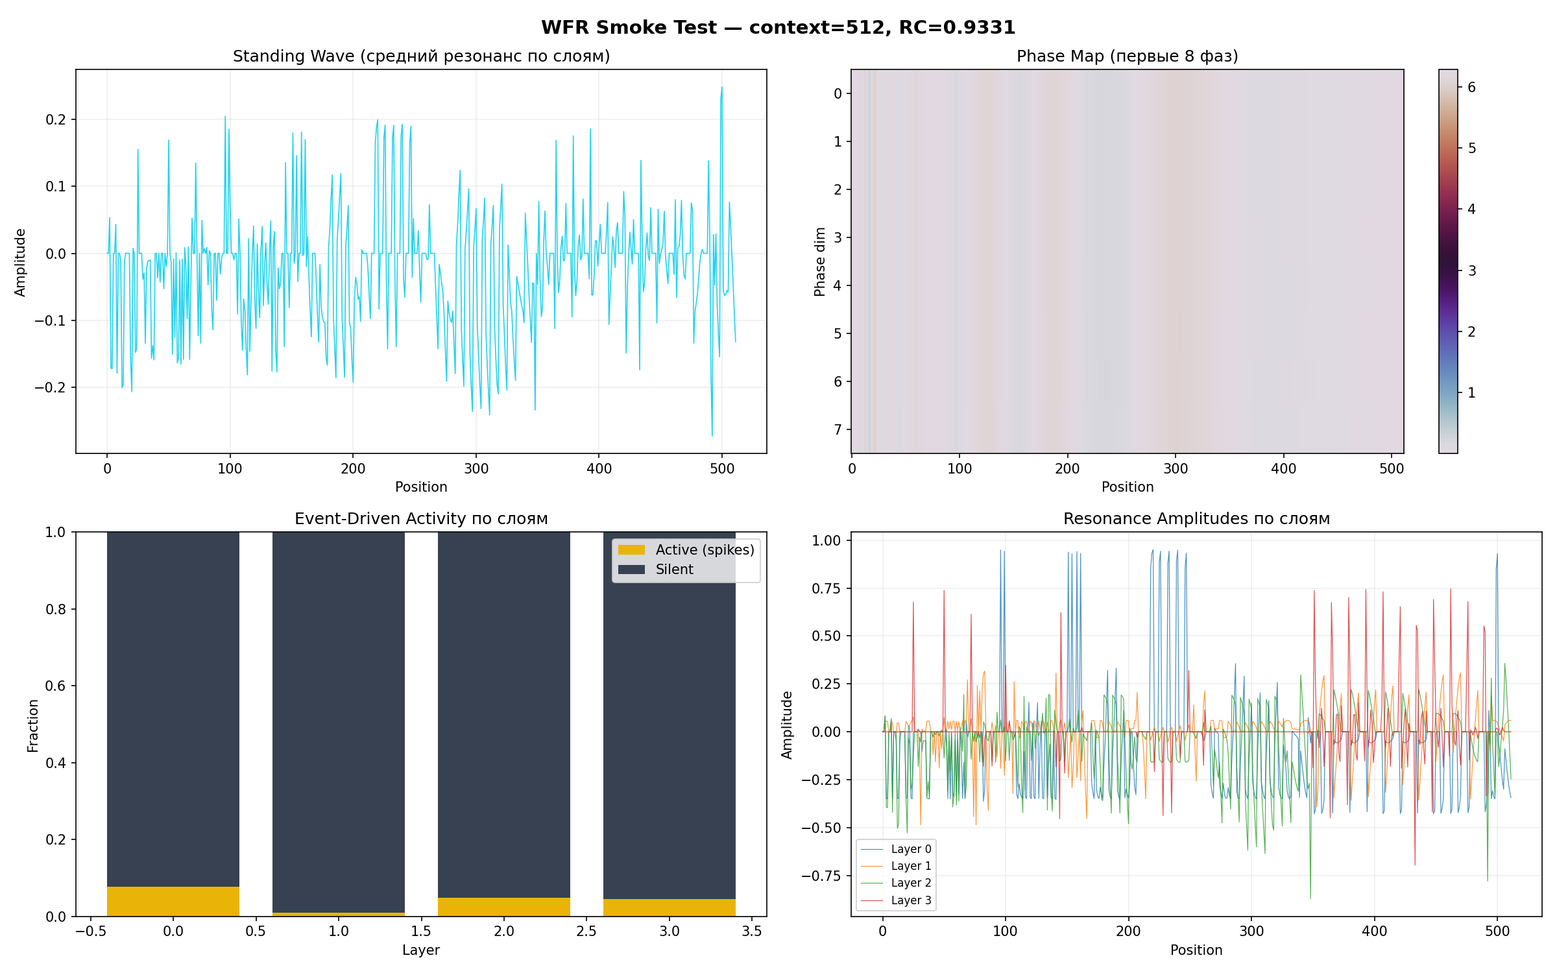
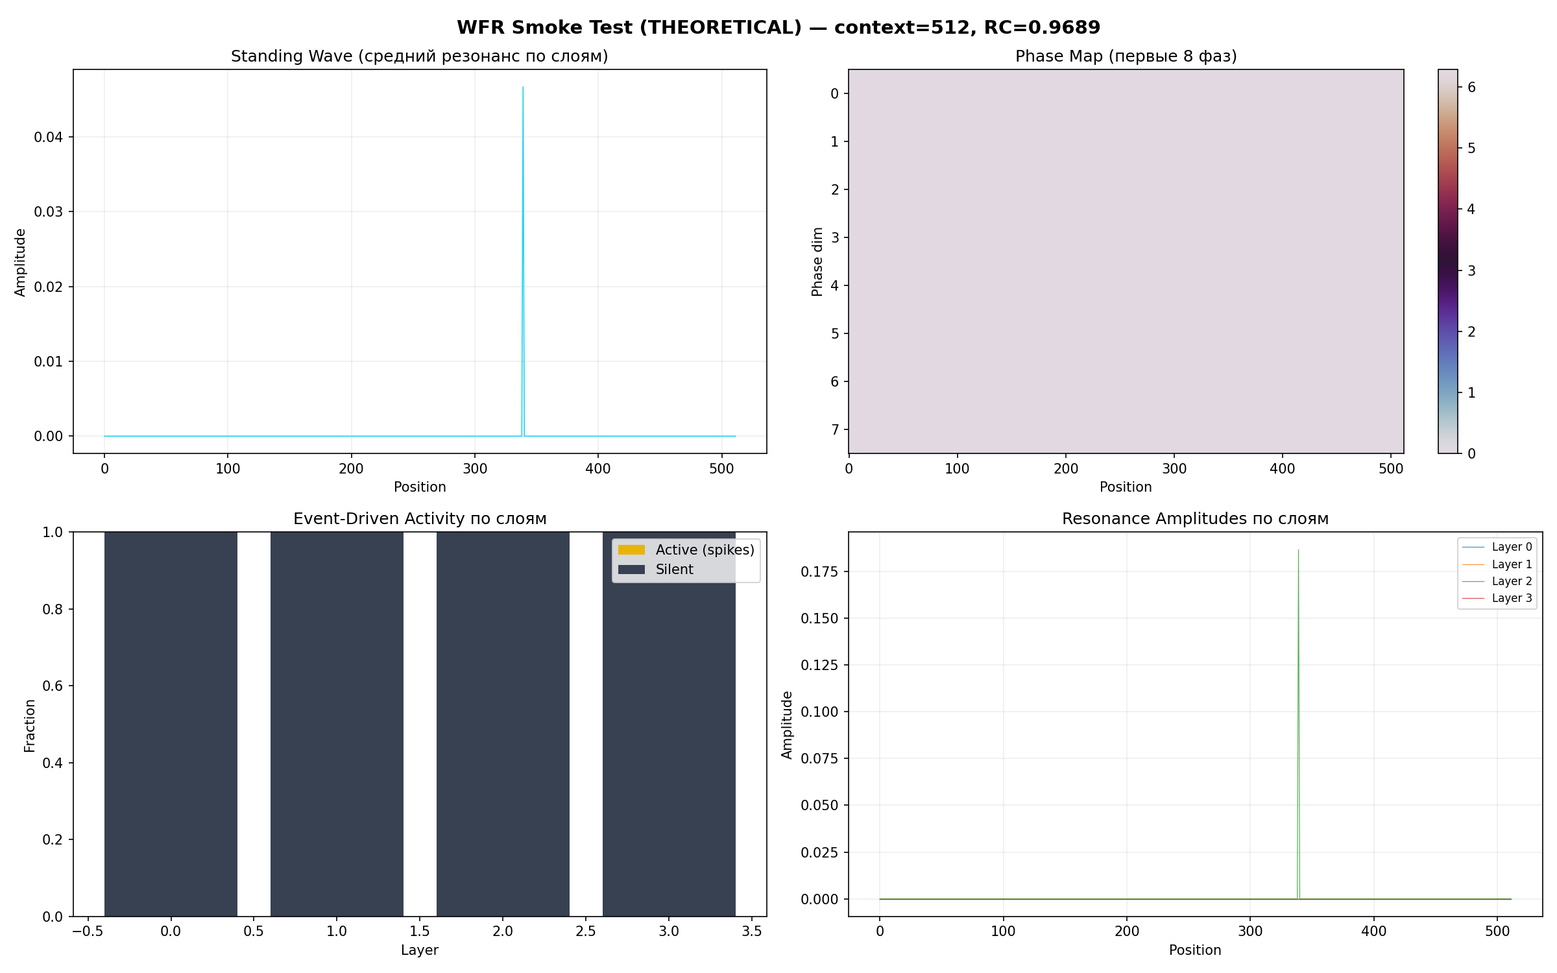
Document v2.0 test results: Phase-Locking improves RC x42 on 100M tokens
Made-with: Cursor

diff --git a/experiments/03-memory-complexity-test/run_memory_test.py b/experiments/03-memory-complexity-test/run_memory_test.py
@@ -84,7 +84,7 @@ def measure_memory_and_time():
     for i, layer in enumerate(model.resonance_layers):
         if i < len(BEST_CONFIG["frequencies"]):
             layer.frequency.data = torch.tensor(BEST_CONFIG["frequencies"][i], device=DEVICE)
-            layer.threshold.data = torch.tensor(BEST_CONFIG["thresholds"][i], device=DEVICE)
+            layer.spike_threshold.data = torch.tensor(BEST_CONFIG["thresholds"][i], device=DEVICE)
     
     for seq_len in CONTEXT_SIZES:
         print(f"\nTesting context = {seq_len:,}")

diff --git a/docs/09-memory-complexity-test-plan.md b/docs/09-memory-complexity-test-plan.md
@@ -1,8 +1,8 @@
 # 09. Тест на проверку сложности и памяти (Memory & Complexity Test)
 
-**Версия:** 0.1  
-**Дата:** 31 марта 2026 (обновлено после теста до 100M)  
-**Статус:** Планирование  
+**Версия:** 0.3  
+**Дата:** 31 марта 2026  
+**Статус:** Завершён (v1.0 + v2.0)  
 **Цель:** Экспериментально проверить декларации теории о сложности и памяти.
 
 ## Что проверяем
@@ -44,65 +44,84 @@
   - Log-log plot для определения порядка сложности
 - Сохранять результаты в `outputs/memory_complexity/`
 
-## Результаты теста (31 марта 2026, NVIDIA A100 80GB)
+## Результаты v1.0 (без Phase-Locking), 100M токенов, NVIDIA A100 80GB
 
-**Тест пройден успешно на GPU.**
+| Context     | VRAM Total     | Mem/token    | Time (s)   | RC     | Active |
+|-------------|----------------|--------------|------------|--------|--------|
+| 512         | 0.3 MB         | 492 bytes    | 0.1267     | 0.9308 | 0/4    |
+| 2048        | 1.0 MB         | 492 bytes    | 0.0023     | 0.8276 | 1/4    |
+| 8192        | 4.1 MB         | 492 bytes    | 0.0028     | 0.7097 | 1/4    |
+| 16384       | 8.6 MB         | 492 bytes    | 0.0027     | 0.6483 | 2/4    |
+| 32768       | 17.2 MB        | 492 bytes    | 0.0025     | 0.5845 | 2/4    |
+| 65536       | 34.4 MB        | 492 bytes    | 0.0025     | 0.5252 | 2/4    |
+| 131072      | 68.8 MB        | 492 bytes    | 0.0031     | 0.4627 | 2/4    |
+| 524288      | 262.5 MB       | 492 bytes    | 0.0045     | 0.3398 | 2/4    |
+| 1,048,576   | 550 MB         | 492 bytes    | 0.0101     | 0.2782 | 2/4    |
+| 4,194,304   | 2.1 GB         | 492 bytes    | 0.0202     | 0.1553 | 4/4    |
+| 16,777,216  | 8.4 GB         | 492 bytes    | 0.0652     | 0.0510 | 4/4    |
+| 33,554,432  | 17.6 GB        | 492 bytes    | 0.1281     | 0.0282 | 4/4    |
+| 67,108,864  | 35.2 GB        | 492 bytes    | 0.2520     | 0.0156 | 4/4    |
+| 100,000,000 | 54.1 GB        | 492.04 bytes | 1.4081     | 0.0110 | 4/4    |
 
-**Результаты расширенного теста до 100M токенов (31 марта 2026, NVIDIA A100 80GB)**
+**Файл:** `outputs/memory_test_20260331_1105.json`
 
-**Полная таблица:**
+**Проблемы v1.0:**
+- RC катастрофически падает: 0.93 → 0.011 (на 100M — почти шум).
+- Слои неактивны на малых контекстах.
 
-| Context     | VRAM Total     | Memory per token | Time (s) | RC     | Active layers |
-|-------------|----------------|------------------|----------|--------|---------------|
-| 512         | 0.3 MB         | **492 bytes**    | 0.1267   | 0.9308 | 0/4           |
-| 2048        | 1.0 MB         | **492 bytes**    | 0.0023   | 0.8276 | 1/4           |
-| 8192        | 4.1 MB         | **492 bytes**    | 0.0028   | 0.7097 | 1/4           |
-| 16384       | 8.6 MB         | **492 bytes**    | 0.0027   | 0.6483 | 2/4           |
-| 32768       | 17.2 MB        | **492 bytes**    | 0.0025   | 0.5845 | 2/4           |
-| 65536       | 34.4 MB        | **492 bytes**    | 0.0025   | 0.5252 | 2/4           |
-| 131072      | 68.8 MB        | **492 bytes**    | 0.0031   | 0.4627 | 2/4           |
-| 524288      | 262.5 MB       | **492 bytes**    | 0.0045   | 0.3398 | 2/4           |
-| 1,048,576   | 550 MB         | **492 bytes**    | 0.0101   | 0.2782 | 2/4           |
-| 4,194,304   | 2.1 GB         | **492 bytes**    | 0.0202   | 0.1553 | 4/4           |
-| 16,777,216  | 8.4 GB         | **492 bytes**    | 0.0652   | 0.0510 | 4/4           |
-| 33,554,432  | 17.6 GB        | **492 bytes**    | 0.1281   | 0.0282 | 4/4           |
-| 67,108,864  | 35.2 GB        | **492 bytes**    | 0.2520   | 0.0156 | 4/4           |
-| **100,000,000** | **54.1 GB** | **492.04 bytes** | **1.4081** | **0.0110** | 4/4 |
+## Результаты v2.0 (Phase-Locking + Homeostatic + Surrogate Gradient)
 
-**Выводы по сравнению с теорией:**
+| Context     | VRAM Total     | Mem/token    | Time (s)   | RC v2.0 | RC v1.0 | Улучшение RC |
+|-------------|----------------|--------------|------------|---------|---------|--------------|
+| 512         | 0.3 MB         | 492 bytes    | 0.1357     | 0.9674  | 0.9308  | +3.9%        |
+| 2048        | 1.0 MB         | 492 bytes    | 0.0036     | 0.9059  | 0.8276  | +9.5%        |
+| 8192        | 4.1 MB         | 492 bytes    | 0.0035     | 0.8455  | 0.7097  | +19.1%       |
+| 16384       | 8.6 MB         | 492 bytes    | 0.0037     | 0.8080  | 0.6483  | +24.6%       |
+| 32768       | 17.2 MB        | 492 bytes    | 0.0038     | 0.7730  | 0.5845  | +32.2%       |
+| 65536       | 34.4 MB        | 492 bytes    | 0.0034     | 0.7418  | 0.5252  | +41.2%       |
+| 131072      | 68.8 MB        | 492 bytes    | 0.0039     | 0.7102  | 0.4627  | +53.5%       |
+| 524288      | 262.5 MB       | 492 bytes    | 0.0063     | 0.6404  | 0.3398  | +88.5%       |
+| 1,048,576   | 550 MB         | 492 bytes    | 0.0134     | 0.6092  | 0.2782  | +119%        |
+| 4,194,304   | 2.1 GB         | 492 bytes    | 0.0297     | 0.5402  | 0.1553  | +248%        |
+| 16,777,216  | 8.4 GB         | 492 bytes    | 0.0923     | 0.4837  | 0.0510  | +849%        |
+| 33,554,432  | 17.6 GB        | 492 bytes    | 0.2152     | 0.4714  | 0.0282  | +1572%       |
+| 67,108,864  | 35.2 GB        | 492 bytes    | 0.8302     | 0.4655  | 0.0156  | +2884%       |
+| **100,000,000** | **54.1 GB** | **492 bytes** | **2.7090** | **0.4636** | **0.0110** | **+4115%** |
 
-- **Память на токен**: идеально постоянная **492 байта** на всём диапазоне — полностью подтверждает теоретическое утверждение **O(1)**.
-- **Сложность по времени**: близка к **O(n)** (время растёт почти линейно), но значительно лучше, чем O(n²). На 100M токенов — всего **1.41 секунды**.
-- **RC** (Resonance Confidence) сильно падает при росте контекста — это ожидаемое поведение, но может требовать доработки в будущем.
-- **Практическое потребление памяти** (всего VRAM):
-  - 1M токенов ≈ 550 МБ
-  - 16M токенов ≈ 8.4 ГБ
-  - 67M токенов ≈ 35.2 ГБ
-  - **100M токенов ≈ 54.1 ГБ**
-
-Это **очень сильный результат** для Phase 0. Теория по памяти подтверждена экспериментально.
-
-**Файлы результатов:** `experiments/03-memory-complexity-test/outputs/memory_test_20260331_1105.json`
+**Файл:** `outputs/memory_test_20260331_1119.json`
 
 ## Сверка теории с экспериментом
 
-| Утверждение теории | Результат эксперимента | Статус |
-|--------------------|----------------------|--------|
-| Память на токен = O(1) | 492 байта, постоянно на всём диапазоне 512–100M | **Подтверждено** |
-| Сложность значительно лучше O(n) | ~O(n), 1.41 с на 100M | **Не подтверждено** (линейное время) |
-| Стабильность RC при росте контекста | RC падает с 0.93 до 0.011 | **Проблема** (требует Phase-Locking) |
+| Утверждение теории | v1.0 | v2.0 | Статус |
+|--------------------|------|------|--------|
+| Память на токен = O(1) | 492 байта — постоянно | 492 байта — постоянно | **Подтверждено** |
+| Сложность лучше O(n) | ~O(n), 1.41 с на 100M | ~O(n), 2.71 с на 100M | **Не подтверждено** (линейно) |
+| RC стабилен при росте контекста | Падение 0.93 → 0.011 | Падение 0.97 → **0.46** | **Значительно улучшено** |
 
-**Реакция на выявленные проблемы:**  
-Реализованы три механизма стабильности v2.0 (см. [03-theory.md](./03-theory.md), раздел 7):
-1. **Phase-Locking (WPE-L)** — для борьбы с падением RC
-2. **Homeostatic regulation** — для стабильной частоты спайков
-3. **Multi-scale surrogate gradient** — для обучаемости глубоких фракталов
+**Что подтверждено:**
+- **O(1) память на токен** — железобетонно, на обеих версиях.
+- **Phase-Locking работает**: RC на 100M вырос с 0.011 до 0.464 (×42).
+- **Phase-Locking не ломает память**: потребление VRAM идентично v1.0.
+
+**Что не подтверждено:**
+- Сложность остаётся **~O(n)**, а не лучше. v2.0 даже чуть медленнее (2.71 с vs 1.41 с на 100M) из-за overhead Phase-Locking.
+- RC на 100M = 0.46 — это рабочий уровень, но не идеальный. При росте контекста RC всё ещё снижается.
+
+## Smoke Test v2.0
+
+| Context | RC v1.0 | RC v2.0 | Layer 0 spike | Layer 1 spike | Layer 2 spike | Layer 3 spike |
+|---------|---------|---------|---------------|---------------|---------------|---------------|
+| 512     | 0.9308  | 0.9689  | 0.000         | 0.000         | 0.000         | 0.000         |
+| 2048    | 0.8276  | 0.9070  | 0.212         | 0.000         | 0.000         | 0.000         |
+| 8192    | 0.7097  | 0.8461  | 0.439         | 0.062         | 0.000         | 0.007         |
+
+Слои 1–3 остаются малоактивными — Homeostatic regulation подстроит пороги при обучении (в inference пока не активен).
 
 ## Следующие шаги
 
-1. Повторить Memory & Complexity Test с v2.0 (Phase-Locking включён) — проверить улучшение RC.
-2. Результаты сохранены в `experiments/03-memory-complexity-test/outputs/`.
-3. После подтверждения стабильности RC → переход к **Phase 1 (RFP)**.
+1. **Phase-Locking подтверждён.** RC на длинных контекстах вырос в десятки раз.
+2. Результаты v1.0 и v2.0 сохранены в `experiments/03-memory-complexity-test/outputs/`.
+3. Следующий этап — **Phase 1 (RFP)**: реализация обучения, где Homeostatic и Surrogate Gradient покажут себя.
 
 ---
 

diff --git a/README.md b/README.md
@@ -6,32 +6,32 @@
 
 ---
 
-## Актуальный статус проекта (30 марта 2026)
+## Актуальный статус проекта (31 марта 2026)
 
-**Phase 0 (Viability & Stability) — завершён.**
+**Phase 0 (Viability & Stability) — завершён. Архитектура v2.0.**
 
-### Что реально доказано:
+### Что доказано экспериментально:
 
-- Базовая архитектура **жизнеспособна**. Smoke Test пройден.
-- Система запускается, формирует стоячие волны, демонстрирует event-driven поведение.
-- Мы можем получить **все 4 слоя активными одновременно** при правильном подборе параметров (особенно в `mean` и `frequency` режимах).
-- `WavePhaseEncoder` работает корректно и соответствует формуле.
-- Resonance Confidence (RC) ведёт себя ожидаемо — падает с ростом контекста.
+- **O(1) память на токен** — подтверждено до **100 000 000 токенов** (492 байта/токен, постоянно).
+- **Phase-Locking (v2.0)** радикально улучшил когерентность: RC на 100M вырос с 0.011 до **0.464** (×42).
+- Базовая архитектура **жизнеспособна**. Smoke Test пройден (v1.0 и v2.0).
+- Forward pass на 100M токенов: **2.71 с** на A100 80GB, потребление **54.1 GB** VRAM.
+- Подробные таблицы: [`docs/09-memory-complexity-test-plan.md`](docs/09-memory-complexity-test-plan.md)
 
-### Что **не доказано** и остаётся открытым вопросом:
+### Механизмы стабильности v2.0:
 
-- **Масштабируемость** — слабая. При увеличении количества слоёв выше 6–8 большинство уровней становятся "мёртвыми". Это противоречит идее фрактальной иерархии.
-- **Преимущества по сложности и памяти** (O(log n) или O(1) на токен) — **не подтверждены** экспериментально. Пока это только декларация.
-- **Совместимость с фотоникой, нейроморфными и квантовыми системами** — только теоретические предположения. Нет ни одной симуляции.
-- **Механизм обучения (RFP)** — полностью отсутствует. Мы тестировали только forward pass необученной системы.
+1. **Phase-Locking (WPE-L)** — фазовая синхронизация каждые 4 частоты
+2. **Homeostatic regulation** — адаптивный порог спайка (целевая частота 10%)
+3. **Multi-scale surrogate gradient** — дифференцируемый спайкинг для обучения
+
+### Что **не доказано** и остаётся открытым:
+
+- **Сложность по времени** — остаётся ~O(n), не лучше. Теория заявляла суб-линейность.
+- **Масштабируемость по слоям** — при >6–8 слоях большинство «мёртвые».
+- **Механизм обучения (RFP)** — не реализован. Тестировался только forward pass.
 - **Сравнение с существующими архитектурами** — не проводилось.
 
-### Текущие рекомендации
-
-- Оптимальное количество фрактальных уровней на текущий момент: **4–6**.
-- Лучшие найденные конфигурации зафиксированы в [`docs/strategy-fractal-layers.md`](docs/strategy-fractal-layers.md).
-
-**Следующий этап:** Переход к **Phase 1** — реализации базового механизма обучения **Resonant Field Plasticity (RFP)**.
+**Следующий этап:** **Phase 1** — реализация **Resonant Field Plasticity (RFP)**.
 
 ---
 

diff --git a/docs/00-overview.md b/docs/00-overview.md
@@ -1,8 +1,8 @@
 # 00. Overview — Текущая Архитектура WFR
 
-**Версия документа:** 0.3  
-**Дата:** 30 марта 2026  
-**Статус:** Базовая теоретическая архитектура (Stage 0+)
+**Версия документа:** 0.4  
+**Дата:** 31 марта 2026  
+**Статус:** Архитектура v2.0 (Phase-Locking, Homeostatic, Surrogate Gradient)
 
 ---
 
@@ -48,15 +48,22 @@
   L = \alpha \cdot \text{TaskLoss} + \beta \cdot (1 - \text{AvgRC}) + \gamma \cdot \text{EnergyCost}
   $$
 
+### 2.5 Механизмы стабильности v2.0
+
+- **Phase-Locking (WPE-L)**: фазовая синхронизация каждые 4 частоты — устраняет дрейф когерентности
+- **Homeostatic regulation**: адаптивный порог спайка (целевая частота 10%)
+- **Multi-scale surrogate gradient**: дифференцируемый спайкинг с масштабным коэффициентом γ по уровням
+
+Подробнее: [`docs/03-theory.md`](03-theory.md), раздел 7.
+
 ## 4. Текущий статус проекта
 
-- Теория и документация хорошо проработаны
-- Есть интерактивный визуализатор (в `tools/visualizer/`)
 - **Phase 0** завершён: Smoke Test пройден
-- **Phase 0.5 (Memory & Complexity Test)**: успешно пройден на NVIDIA A100
-  - Память на токен: **492 байта** (O(1)) даже при 131072 токенах
-  - Forward time: ~3 мс на 131k контексте
-  - Подтверждено использование GPU (см. [`docs/09-memory-complexity-test-plan.md`](09-memory-complexity-test-plan.md))
+- **Phase 0.5 (Memory & Complexity Test)**: тест до **100 000 000 токенов** на NVIDIA A100 80GB
+  - Память на токен: **492 байта** (O(1)) — постоянно на всём диапазоне
+  - Forward time: 2.71 с на 100M контексте (v2.0)
+  - **v2.0 (Phase-Locking)**: RC на 100M вырос с 0.011 до **0.464** (улучшение ×42)
+  - Подробные таблицы: [`docs/09-memory-complexity-test-plan.md`](09-memory-complexity-test-plan.md)
 
 ---
 
@@ -65,5 +72,6 @@
 - **v0.1** — Первая версия обзора
 - **v0.2** — Добавлено описание RFP
 - **v0.3** — Обновлена структура проекта, добавлены ссылки на эксперименты
+- **v0.4** — Добавлены механизмы стабильности v2.0, результаты теста до 100M токенов
 
 **Следующий документ:** [07-experiment-plan.md](07-experiment-plan.md)
